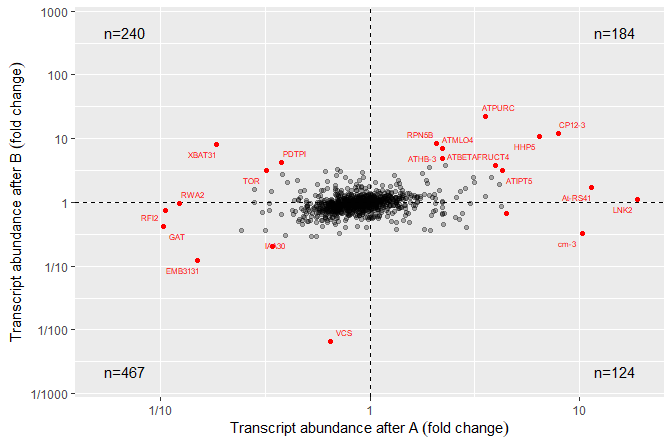
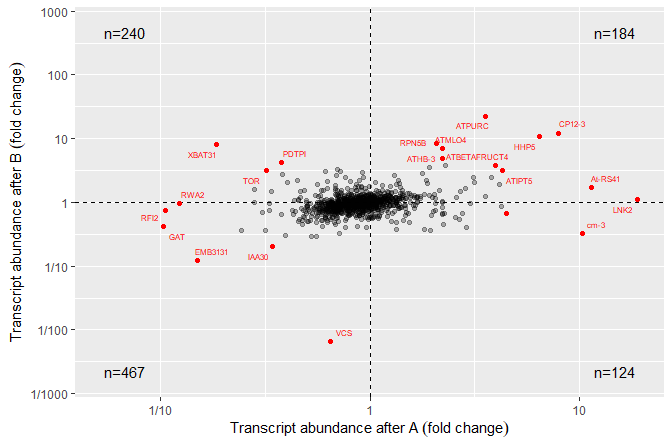
README

diff --git a/README.md b/README.md
@@ -17,11 +17,6 @@ site](https://img.shields.io/badge/documentation-ggpmisc-informational.svg)](htt
 [![DOI](https://img.shields.io/badge/doi-10.32614/CRAN.package.ggpmisc-blue.svg)](https://doi.org/10.32614/CRAN.package.ggpmisc)
 <!-- badges: end -->
 
-**Current failure of `R-CMD-check.yaml` at GitHub is due to small visual
-differences in plots between versions of R, which are not fully
-addressed by the currently implemented versioning of graphical “snaps”
-used as reference for tests.**
-
 ## Purpose
 
 Package ‘**ggpmisc**’ (Miscellaneous Extensions to ‘ggplot2’) is a set
@@ -412,6 +407,12 @@ Please report bugs and request new features at
 <https://github.com/aphalo/ggpmisc/issues>. Pull requests are welcome at
 <https://github.com/aphalo/ggpmisc>.
 
+Testing by `R-CMD-check.yaml` at GitHub is partly ‘ggplot2’-version
+dependent and run only under the latest R release because of very small
+differences in plots and corresponding graphical “snaps” used as
+reference. Visual difference tests are never run by CRAN because they
+are “fragile” and prone to unexpectedly and spuriously fail.
+
 ## Citation
 
 If you use this package to produce scientific or commercial
@@ -422,7 +423,7 @@ citation("ggpmisc")
 #> To cite package 'ggpmisc' in publications use:
 #> 
 #>   Aphalo P (2026). _ggpmisc: Miscellaneous Extensions to 'ggplot2'_. R
-#>   package version 0.6.3.9003,
+#>   package version 0.7.0.9000,
 #>   <https://docs.r4photobiology.info/ggpmisc/>.
 #> 
 #> A BibTeX entry for LaTeX users is
@@ -431,7 +432,7 @@ citation("ggpmisc")
 #>     title = {ggpmisc: Miscellaneous Extensions to 'ggplot2'},
 #>     author = {Pedro J. Aphalo},
 #>     year = {2026},
-#>     note = {R package version 0.6.3.9003},
+#>     note = {R package version 0.7.0.9000},
 #>     url = {https://docs.r4photobiology.info/ggpmisc/},
 #>   }
 ```